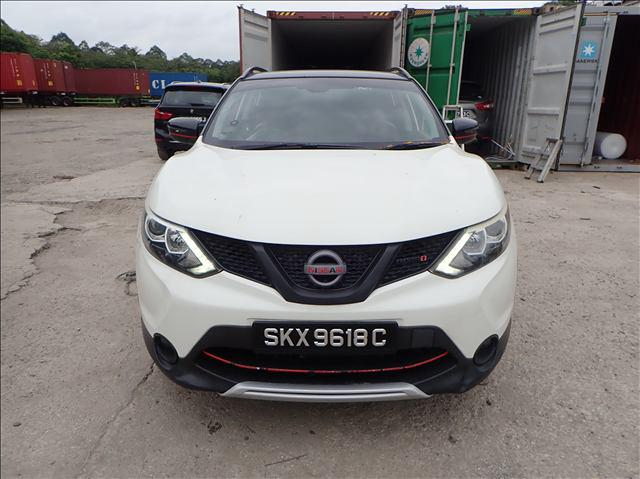
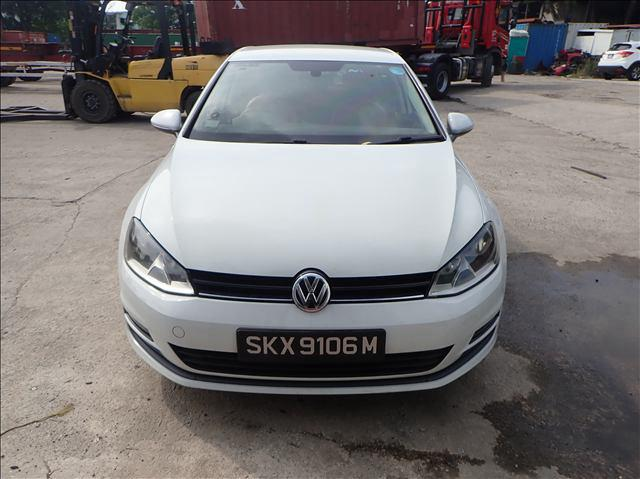
work on add youtube link and instragram link

diff --git a/src/entry-server.js b/src/entry-server.js
@@ -3,8 +3,8 @@ const GALLERY_IMAGES = [
   { src: '/gallery-1.png', alt: 'BMW X1', tag: 'BMW', title: 'BMW X1', price: 'Inquiry', year: '', km: '65,000 km', location: 'Singapore' },
   { src: '/gallery-2.jpeg', alt: 'Nissan Qashqai', tag: 'Japanese SUV', title: 'Nissan Qashqai', price: '', year: '', km: '52,000 km', location: 'Singapore' },
   { src: '/gallery-8.png', alt: 'Mazda 3', tag: 'Japanese Hatchback', title: 'Mazda 3', price: '', year: '', km: '62,000 km', location: 'Singapore' },
-  { src: '/gallery-4.png', alt: 'Gold A7', tag: 'Continental', title: 'Gold A7', price: '', year: '', km: '71,000 km', location: 'Singapore' },
-  { src: '/gallery-5.png', alt: 'Body Panels & Engines', tag: 'Spare Parts', title: 'Body Panels & Engines', price: 'Various', year: 'New', km: 'N/A', location: 'Singapore' },
+  { src: '/gallery-4.png', alt: 'White Volkswagen Golf, front view, Singapore', tag: 'Continental', title: 'Volkswagen Golf', price: '', year: '', km: '', location: 'Singapore' },
+  { src: '/gallery-5.png', alt: 'Complete cars loading: Mazda stacked above white BMW sedan secured inside shipping container, Singapore', tag: 'Export', title: 'Complete Cars Loading', price: '', year: '', km: '', location: 'Singapore' },
   { src: '/gallery-6.png', alt: 'Salvage Vehicles', tag: 'Salvage Stock', title: 'Salvage Vehicles', price: 'Inquiry', year: 'Various', km: 'As-is', location: 'Singapore' },
   { src: '/gallery-7.png', alt: 'Container Loading', tag: 'Spare Parts', title: 'Container Loading', price: '', year: '', km: '', location: 'Singapore' },
   { src: '/gallery-3.png', alt: 'Salvage Car Load', tag: 'Japanese Sedan', title: 'Salvage Car Load', price: '$45,000', year: '2023', km: '12,000 km', location: 'Singapore' },
@@ -161,13 +161,13 @@ export function render(_url) {
         </div>
         <div class="gallery-card gallery-card--thumb-detail">
           <div class="gallery-card-image-wrap">
-            <img src="/gallery-4.png" alt="Gold A7" class="gallery-card-image" />
+            <img src="/gallery-4.png" alt="White Volkswagen Golf, front view, Singapore" class="gallery-card-image" />
             <span class="gallery-tag">Continental</span>
           </div>
           <div class="gallery-thumb-meta">
             <ul class="gallery-thumb-details-column">
-              <li class="gallery-thumb-line gallery-thumb-line--model">Gold A7</li>
-              <li class="gallery-thumb-line gallery-thumb-line--mileage">Mileage 71,000 km</li>
+              <li class="gallery-thumb-line gallery-thumb-line--model">Volkswagen Golf</li>
+              <li class="gallery-thumb-line gallery-thumb-line--mileage">Mileage on inquiry</li>
               <li class="gallery-thumb-line gallery-thumb-line--location">Singapore</li>
             </ul>
           </div>
@@ -175,10 +175,10 @@ export function render(_url) {
         </div>
         <div class="gallery-card">
           <div class="gallery-card-image-wrap">
-            <img src="/gallery-5.png" alt="Body Panels & Engines" class="gallery-card-image" />
-            <span class="gallery-tag">Spare Parts</span>
+            <img src="/gallery-5.png" alt="Complete cars loading: Mazda stacked above white BMW sedan secured inside shipping container, Singapore" class="gallery-card-image" />
+            <span class="gallery-tag">Export</span>
           </div>
-          <h3 class="gallery-card-title">Body Panels & Engines</h3>
+          <h3 class="gallery-card-title">Complete Cars Loading</h3>
           <ul class="gallery-card-details">
             <li class="gallery-card-detail--location">Singapore</li>
           </ul>
@@ -298,12 +298,12 @@ export function render(_url) {
       </h2>
       <p class="stay-connected-subtitle">Follow us on social media for the latest updates, exclusive deals, and behind-the-scenes content.</p>
       <div class="stay-connected-cards">
-        <a href="https://instagram.com/bilawamotors" target="_blank" rel="noopener" class="social-card social-card--instagram">
+        <a href="https://www.instagram.com/bilawalmotors?igsh=NHdkMG1wdDRydDEw&amp;utm_source=qr" target="_blank" rel="noopener" class="social-card social-card--instagram">
           <span class="social-card-icon social-card-icon--instagram" aria-hidden="true"></span>
           <h3 class="social-card-title">Instagram</h3>
-          <p class="social-card-desc">Daily updates of our latest vehicles and exclusive behind-the-scenes content <strong>@bilawamotors</strong> <span class="social-arrow">→</span></p>
+          <p class="social-card-desc">Daily updates of our latest vehicles and exclusive behind-the-scenes content <strong>@bilawalmotors</strong> <span class="social-arrow">→</span></p>
         </a>
-        <a href="https://youtube.com/@bilawalmotors" target="_blank" rel="noopener" class="social-card social-card--youtube">
+        <a href="https://www.youtube.com/@BilawalMotors" target="_blank" rel="noopener" class="social-card social-card--youtube">
           <span class="social-card-icon social-card-icon--youtube" aria-hidden="true"></span>
           <h3 class="social-card-title">YouTube</h3>
           <p class="social-card-desc">Watch detailed vehicle reviews, walkarounds, and export process <strong>Bilawal Motors</strong> <span class="social-arrow">→</span></p>
@@ -318,8 +318,8 @@ export function render(_url) {
         <h3 class="dont-miss-title">Don't Miss Out!</h3>
         <p class="dont-miss-desc">Join thousands of satisfied customers who trust Bilawal Motors for their vehicle import and export needs. Follow us today for exclusive deals and early access to new inventory.</p>
         <div class="dont-miss-buttons">
-          <a href="https://instagram.com/bilawamotors" target="_blank" rel="noopener" class="dont-miss-btn dont-miss-btn--instagram">Follow on Instagram</a>
-          <a href="https://youtube.com/@bilawalmotors" target="_blank" rel="noopener" class="dont-miss-btn dont-miss-btn--youtube">Subscribe on YouTube</a>
+          <a href="https://www.instagram.com/bilawalmotors?igsh=NHdkMG1wdDRydDEw&amp;utm_source=qr" target="_blank" rel="noopener" class="dont-miss-btn dont-miss-btn--instagram">Follow on Instagram</a>
+          <a href="https://www.youtube.com/@BilawalMotors" target="_blank" rel="noopener" class="dont-miss-btn dont-miss-btn--youtube">Subscribe on YouTube</a>
           <a href="https://wa.me/6590357663" target="_blank" rel="noopener" class="dont-miss-btn dont-miss-btn--whatsapp">Chat on WhatsApp</a>
         </div>
       </div>
@@ -369,8 +369,8 @@ export function render(_url) {
           </div>
           <h3 class="contact-panel-title contact-panel-title--connect">Connect With Us</h3>
           <div class="contact-social-icons">
-            <a href="https://instagram.com/bilawamotors" target="_blank" rel="noopener" class="contact-social-icon contact-social-icon--instagram" aria-label="Instagram"></a>
-            <a href="https://youtube.com/@bilawalmotors" target="_blank" rel="noopener" class="contact-social-icon contact-social-icon--youtube" aria-label="YouTube"></a>
+            <a href="https://www.instagram.com/bilawalmotors?igsh=NHdkMG1wdDRydDEw&amp;utm_source=qr" target="_blank" rel="noopener" class="contact-social-icon contact-social-icon--instagram" aria-label="Instagram"></a>
+            <a href="https://www.youtube.com/@BilawalMotors" target="_blank" rel="noopener" class="contact-social-icon contact-social-icon--youtube" aria-label="YouTube"></a>
             <a href="https://wa.me/6590357663" target="_blank" rel="noopener" class="contact-social-icon contact-social-icon--whatsapp" aria-label="WhatsApp"></a>
           </div>
           <p class="contact-connect-desc">Follow us on Instagram and YouTube for latest inventory updates. Chat with us on WhatsApp for quick inquiries.</p>
